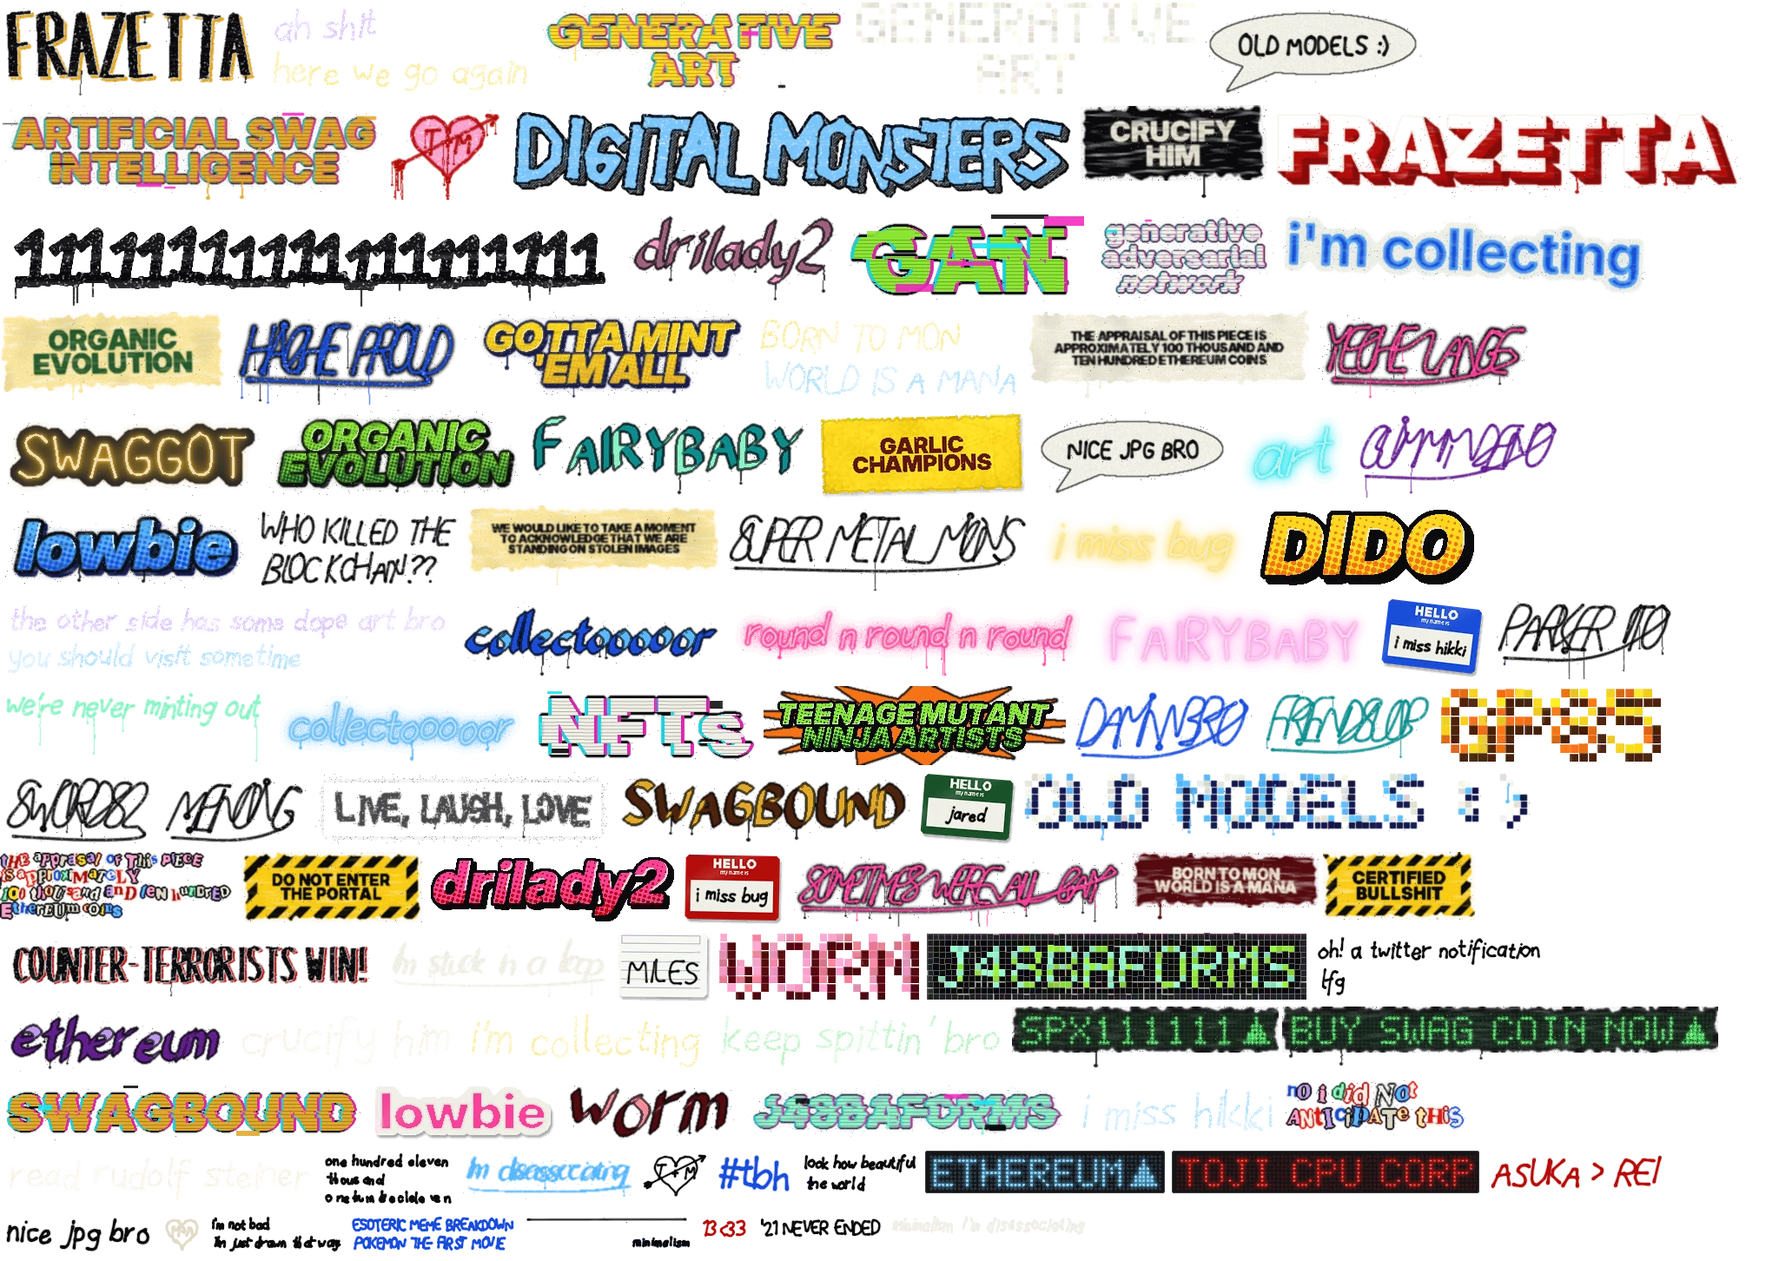
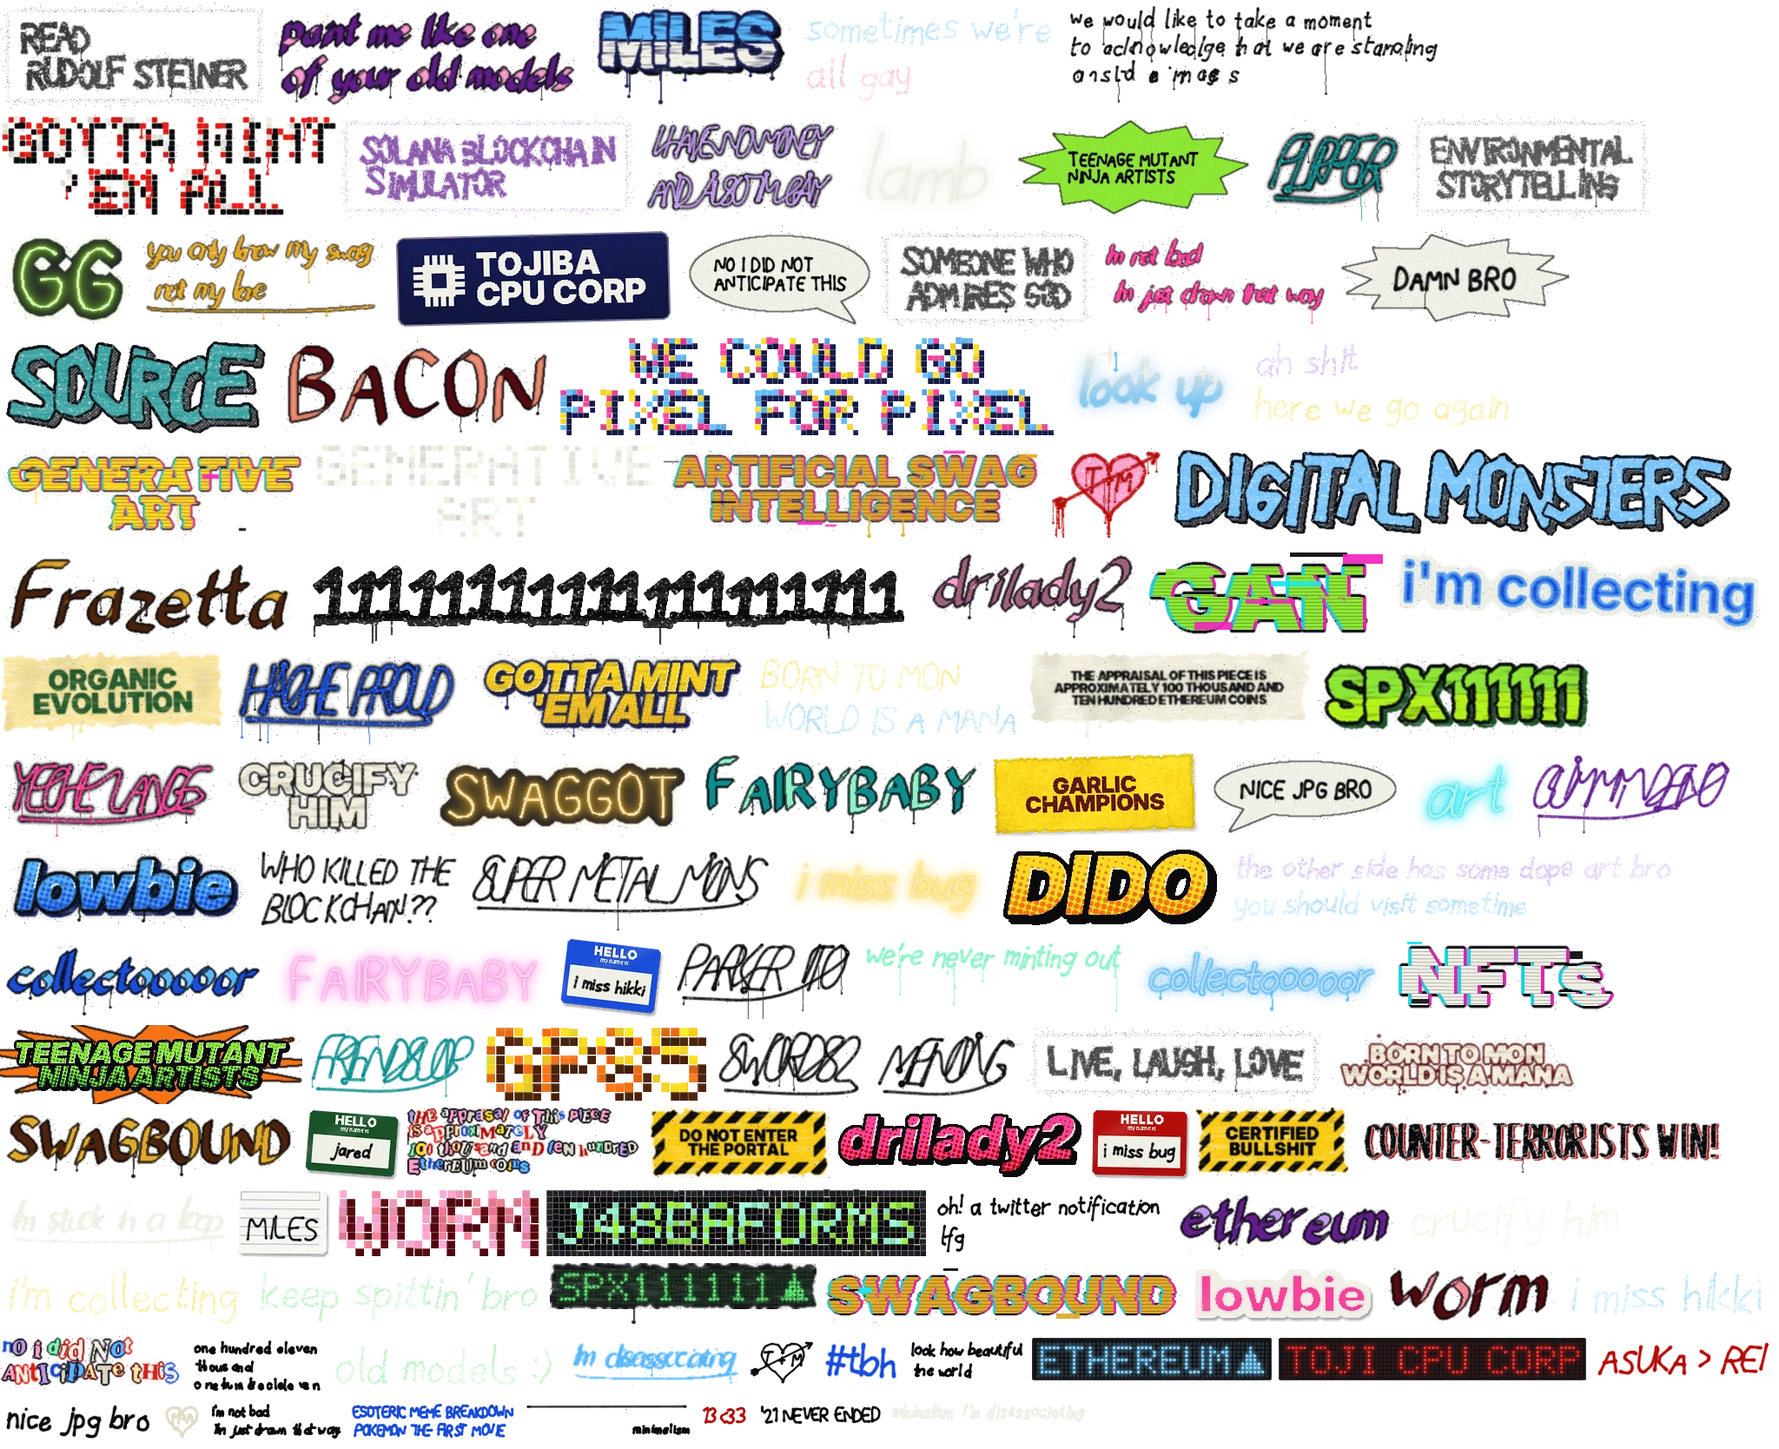
Graffiti review (9 Nov): remakes, kerning and no-drip versions
- 20 redone in other styles (ribbon, throw-ups, piece, roller, blockbuster,
  hollow 3D, stencil, chalk, a circle for round n round); the ticker and
  glitch ones (buy swag coin now, generative adversarial network,
  J48BAFORMS) as actual graffiti instead of pixels/digital
- CRUCIFY HIM, BORN TO MON, the Gucci list: no rectangle behind them now
- EGGS: a G that reads as a G in fat letters
- letters spaced out on 4 (the circle sets its words smaller to stay in its
  half of the ring); SOURCE and SPX111111 without drips
- their review statuses cleared so they show up to review again

Claude-Session: https://claude.ai/code/session_01KTYzke645RpUb8Vvjyd6au

diff --git a/tools/graffiti_fourth.py b/tools/graffiti_fourth.py
@@ -24,11 +24,15 @@ import graffiti_third as T
 from graffiti_more import (BLACK, WHITE, SILVER, CHARCOAL, BLOOD, OXBLOOD, BONE, HOTPINK, BUBBLEGUM, LILAC, GRAPE, SKY,
                            COBALT, NAVY, TEAL, LIME, TOXIC, FOREST, MINT, YELLOW, GOLD, ORANGE, TANGERINE, RED, CREAM,
                            BROWN, MAUVE, STRAIGHT, WILD, SEMI, ANGTHROW, paint_mask, spray_paths, stack, trim, paste, add_drips)
+from graffiti_third import MAGENTA as MAGENTA_
 from graffiti_third import type_masks, crop_masks, dilate, erode, shift, noise, rough, mix, hand_strokes, stroke_mask
 
 PX = G.PX_PER_M
 CAUTION = (0.98, 0.8, 0.08)
 G.GLYPHS.setdefault('>', [[(0.0, 0.85), (0.45, 0.5), (0.0, 0.15)]])      # (for ASUKA > REI)
+# a G that stays a G in fat bubble letters: the top left open, a square spur down the right, a clear crossbar
+CLEAR_G = {'G': [[(0.66, 0.92), (0.4, 1.0), (0.1, 0.88), (0.0, 0.5), (0.1, 0.1), (0.38, 0.0), (0.72, 0.0), (0.72, 0.4),
+                  (0.36, 0.4)]]}
 
 
 def spray(cv, mask, color, r, soft=1.0, mist=1.2, streak=0.2, opacity=1.0):
@@ -278,6 +282,9 @@ def rng(name, seed):
     return np.random.default_rng(zlib.crc32(name.encode()) + seed * 104729)
 
 
+# after review (/graffiti, 9 Nov): letters spaced out, and remade without drips
+KERN4 = {'sc_psuedointellectual', 'sc_secretlyfamous', 'sc_stolenimages', 'ci_swagworld'}
+NODRIPS4 = {'ol_source', 'bb_spx111111'}
 THIRD_FAMILIES = {'bb', 'sl', 'ps', 'rn', 'mo', 'tk', 'ne', 'gl', 'ht', 'ch', 'sb', 'sg', 'cx', 'rb'}
 
 
@@ -290,14 +297,14 @@ def build_fourth(seed=13, only=None):
             return
         r = rng(name, seed)
         T.SPRAY, T._R = name.split('_')[0] in THIRD_FAMILIES, np.random.default_rng(zlib.crc32(name.encode()) + 23)
+        G.NODRIPS, G.KERN = name in NODRIPS4, G.KERN_SPACE if name in KERN4 else 0.0
         try:
             P[name] = trim(fn(r), 6)
         finally:
-            T.SPRAY = False
+            T.SPRAY, G.NODRIPS, G.KERN = False, False, 0.0
 
     # paint me like one of your old models
     add('sc_paintmelike', lambda r: G.scrawl(['paint me like one', 'of your old models'], HOTPINK, r, 0.16, 0.016, drips=0.2))
-    add('ab_paintmelike', lambda r: airbrush('paint me like one\nof your old models', BUBBLEGUM, GRAPE, r, 0.18, halo=LILAC))
     # GLUE FACTORY
     add('tu_gluefactory', lambda r: G.piece('GLUE\nFACTORY', WHITE, BLACK, r, 0.42, shadow=SKY, shine=None, **ANGTHROW))
     add('vt_gluefactory', lambda r: vertical('GLUE FACTORY', CREAM, BROWN, r, 0.24, shadow=BLACK))
@@ -306,12 +313,11 @@ def build_fourth(seed=13, only=None):
                                              block=NAVY, **SEMI))
     add('ci_imagecollider', lambda r: circle(('IMAGE COLLIDER', None), SKY, r, 0.5, middle='tracks', accent=TANGERINE))
     # BACON
-    add('bb_bacon', lambda r: T.blockbuster('BACON', (0.85, 0.35, 0.3), OXBLOOD, r, 0.45, fill2=(0.98, 0.8, 0.7), shadow=BLACK,
-                                            streak=0.35, drips=0.2))
     add('dt_bacon', lambda r: dot_letters('BACON', [(0.98, 0.78, 0.68), (0.8, 0.3, 0.25)], r, 0.45, outline=OXBLOOD,
                                           base=(0.9, 0.5, 0.42)))
     # EGGS
-    add('tu_eggs', lambda r: G.piece('EGGS', WHITE, BLACK, r, 0.55, shadow=YELLOW, fat=0.2, shine=None))
+    add('tu_eggs', lambda r: G.piece('EGGS', WHITE, BLACK, r, 0.55, shadow=YELLOW, fat=0.14, shine=None, glyphs=CLEAR_G,
+                                     spacing=0.16))
     add('ab_eggs', lambda r: airbrush('EGGS', WHITE, YELLOW, r, 0.4, halo=GOLD, keyline=ORANGE, script=False))
     # retarded psuedointellectual bullshit (spelled as given)
     add('sc_psuedointellectual', lambda r: G.scrawl(['retarded', 'psuedointellectual', 'bullshit'], BLACK, r, 0.15, 0.015, drips=0.25))
@@ -334,7 +340,6 @@ def build_fourth(seed=13, only=None):
     add('sn_admiresgod', lambda r: M.cutstencil('SOMEONE WHO\nADMIRES GOD', BLACK, r, 0.15, fade=0.05))
     # sometimes we're all gay
     add('ch_sometimesgay', lambda r: T.chalk(["sometimes we're", 'all gay'], r, 0.2))
-    add('bf_sometimesgay', lambda r: M.busflow("SOMETIMES WE'RE ALL GAY", HOTPINK, r, 0.24, 0.015, outline=BLACK))
     # GAYMER
     add('pc_gaymer', lambda r: G.piece('GAYMER', HOTPINK, BLACK, r, 0.5, fill_style='stripes', fill2=SKY, shadow=BLACK, block=GRAPE,
                                        **SEMI))
@@ -347,7 +352,6 @@ def build_fourth(seed=13, only=None):
     add('sh_hehe', lambda r: shadow_letters('HEHE', HOTPINK, r, 0.45, brush='round'))
     # damn bro
     add('sb_damnbro', lambda r: T.speech(['DAMN BRO'], r, 'shout', fill=WHITE, height_m=0.14))
-    add('bf_damnbro', lambda r: M.busflow('DAMN BRO', COBALT, r, 0.32, 0.018))
     # flipper
     add('bf_flipper', lambda r: M.busflow('FLIPPER', TEAL, r, 0.34, 0.018, outline=BLACK))
     add('vt_flipper', lambda r: vertical('FLIPPER', SKY, NAVY, r, 0.24, shadow=WHITE))
@@ -377,12 +381,10 @@ def build_fourth(seed=13, only=None):
                                     **STRAIGHT))
     add('sh_lsw', lambda r: shadow_letters('LSW', GOLD, r, 0.6))
     # it's a swag world after all
-    add('ab_swagworld', lambda r: airbrush("it's a swag world\nafter all", GOLD, ORANGE, r, 0.2, halo=YELLOW))
     add('ci_swagworld', lambda r: circle(("IT'S A SWAG WORLD", 'AFTER ALL'), GOLD, r, 0.48, middle='globe', accent=YELLOW,
                                          inner=COBALT))
     # TRADING ROOM FLOOR
     add('cx_tradingroomfloor', lambda r: T.chart(r, big='TRADING ROOM FLOOR', up=False, n=16))
-    add('pl_tradingroomfloor', lambda r: M.placa('TRADING\nROOM FLOOR', BLACK, r, 0.22, shadow=BLOOD))
     # SPX111111
     add('tk_spx111111', lambda r: T.ticker(['SPX111111'], r, color=(0.35, 1.0, 0.45), arrow='up'))
     add('bb_spx111111', lambda r: T.blockbuster('SPX111111', LIME, BLACK, r, 0.36, fill2=TOXIC, shadow=FOREST, streak=0.35, drips=0.2))
@@ -393,13 +395,10 @@ def build_fourth(seed=13, only=None):
     add('tag_tbh', lambda r: G.tag('#tbh', BLACK, r, height_m=0.35, width_m=0.022, flourish='underline'))
     add('mk_tbh', lambda r: G.marker('', COBALT, r, 0.2, lines=['#tbh']))
     # we would like to take a moment to acknowledge that we are standing on stolen images
-    add('ps_stolenimages', lambda r: T.poster(['WE WOULD LIKE TO TAKE A MOMENT', 'TO ACKNOWLEDGE THAT WE ARE',
-                                               'STANDING ON STOLEN IMAGES'], r, width_m=1.7, sheet=CREAM, ink=BLACK, line_gap=1.25))
     add('sc_stolenimages', lambda r: G.scrawl(['we would like to take a moment', 'to acknowledge that we are standing',
                                               'on stolen images'], BLACK, r, 0.12, 0.013, drips=0.15))
     # DO NOT ENTER THE PORTAL
     add('hz_donotenter', lambda r: hazard(['DO NOT ENTER', 'THE PORTAL'], r, 1.2))
-    add('sn_donotenter', lambda r: M.cutstencil('DO NOT ENTER\nTHE PORTAL', BLACK, r, 0.16, fade=0.05))
     # the other side has some dope art bro you should visit sometime
     add('ch_otherside', lambda r: T.chalk(['the other side has some dope art bro', 'you should visit sometime'], r, 0.15))
     add('sb_otherside', lambda r: T.speech(['THE OTHER SIDE HAS SOME', 'DOPE ART BRO YOU SHOULD', 'VISIT SOMETIME'], r, 'round',
@@ -416,10 +415,33 @@ def build_fourth(seed=13, only=None):
     add('dt_source', lambda r: dot_letters('SOURCE', [WHITE, SKY], r, 0.4, base=TEAL))
     # read rudolf steiner
     add('sn_rudolfsteiner', lambda r: M.cutstencil('READ\nRUDOLF STEINER', BLACK, r, 0.16, fade=0.05))
-    add('ch_rudolfsteiner', lambda r: T.chalk(['read rudolf steiner'], r, 0.2))
     # FRAZETTA
-    add('pl_frazetta', lambda r: M.placa('FRAZETTA', BLACK, r, 0.3, shadow=GOLD))
-    add('sh_frazetta', lambda r: shadow_letters('FRAZETTA', BLOOD, r, 0.4))
+    # ---- remade after the 9 Nov review, each in some other style (the old names are gone from the cans)
+    add('rb_paintmelike', lambda r: T.ribbon('paint me like one\nof your old models', BUBBLEGUM, GRAPE, r, 0.2))
+    add('rb_bacon', lambda r: T.ribbon('BACON', (0.95, 0.55, 0.45), OXBLOOD, r, 0.42, script=False))
+    add('tu_damnbro', lambda r: G.piece('DAMN\nBRO', SKY, BLACK, r, 0.42, shadow=NAVY, shine=WHITE, **ANGTHROW))
+    add('rl_donotenter', lambda r: G.roller('DO NOT ENTER\nTHE PORTAL', BLOOD, r, 0.3))
+    add('pc_frazetta', lambda r: G.piece('FRAZETTA', GOLD, BLACK, r, 0.5, fill_style='fade', fill2=BLOOD, shadow=BLACK, block=OXBLOOD,
+                                         **SEMI))
+    add('rb_frazetta', lambda r: T.ribbon('Frazetta', GOLD, BROWN, r, 0.4))
+    add('tu_rudolfsteiner', lambda r: G.piece('READ RUDOLF\nSTEINER', CREAM, FOREST, r, 0.32, shadow=BLACK, shine=None, **ANGTHROW))
+    add('rb_sometimesgay', lambda r: T.ribbon("sometimes we're\nall gay", HOTPINK, GRAPE, r, 0.24))
+    add('ch_stolenimages', lambda r: T.chalk(['we would like to take a moment', 'to acknowledge that we are', 'standing on stolen images'],
+                                             r, 0.14))
+    add('tu_swagworld', lambda r: G.piece("IT'S A SWAG WORLD\nAFTER ALL", GOLD, BLACK, r, 0.26, fill_style='fade', fill2=ORANGE,
+                                          shadow=BLACK, shine=WHITE, **ANGTHROW))
+    add('bb_tradingroomfloor', lambda r: T.blockbuster('TRADING\nROOM FLOOR', LIME, BLACK, r, 0.32, fill2=FOREST, shadow=WHITE,
+                                                       streak=0.35, drips=0.15))
+    # (from the third batch: the digital-looking ones as actual graffiti)
+    add('ol_counterterroristswin', lambda r: M.outline3d('COUNTER-\nTERRORISTS WIN!', BLACK, r, 0.3, fill=SKY, block_fill=None))
+    add('ol_gan_long', lambda r: M.outline3d('GENERATIVE\nADVERSARIAL\nNETWORK', BLACK, r, 0.22, fill=MAGENTA_, block_fill=None))
+    add('sn_gan_long', lambda r: M.cutstencil('GENERATIVE\nADVERSARIAL\nNETWORK', BLACK, r, 0.22, fade=0.05))
+    add('tu_j48baforms', lambda r: G.piece('J48BAFORMS', MINT, BLACK, r, 0.38, shadow=TEAL, shine=WHITE, **ANGTHROW))
+    add('tu_buyswagcoinnow', lambda r: G.piece('BUY SWAG\nCOIN NOW', LIME, BLACK, r, 0.34, shadow=FOREST, shine=WHITE, fat=0.15))
+    add('tu_oldmodels', lambda r: G.piece('OLD MODELS :)', SKY, BLACK, r, 0.36, shadow=WHITE, shine=None, fat=0.15))
+    add('ch_oldmodels', lambda r: T.chalk(['old models :)'], r, 0.22))
+    add('rb_organicevolution', lambda r: T.ribbon('organic\nevolution', LIME, FOREST, r, 0.26))
+    add('ci_roundnround', lambda r: circle(('ROUND N ROUND N', 'ROUND'), HOTPINK, r, 0.45, middle='tracks', accent=BUBBLEGUM))
     return P
 
 

diff --git a/tools/graffiti_third.py b/tools/graffiti_third.py
@@ -509,7 +509,7 @@ def paper(cv, mask, color, r, wrinkle=0.5, torn=True):
 
 
 def poster(lines, r, kind='type', width_m=0.7, font_kind='black', ink=BLACK, sheet=PAPER, small=None, line_gap=1.12,
-           margin=0.1):
+           margin=0.1, panel=True):
     """A wheatpasted print. kind: 'type' (ink on paper), anything else is just the colours given.
     (Spray mode: a sprayed panel with big sprayed block letters on it.)"""
     if SPRAY:
@@ -532,6 +532,13 @@ def poster(lines, r, kind='type', width_m=0.7, font_kind='black', ink=BLACK, she
     sheet_mask[5:5 + H, 5:5 + W] = True
     if not SPRAY:
         cv.over(BLACK, ndimage.gaussian_filter(shift(sheet_mask, 1, 2).astype(float), 1.5) * 0.25)
+    if SPRAY and not panel:                # no panel at all: just the words, edged in what was the panel's colour
+        tmp = G.Canvas(cv.w, cv.h)
+        place(tmp, m, WHITE, cv.w / 2, 5 + mh)
+        words = tmp.a > 0.5
+        flat(cv, dilate(words, max(2.0, m.shape[0] * 0.03)), sheet)
+        flat(cv, words, ink)
+        return light_drips(cv, sheet, r, dilate(words, 2), rate=0.1)
     sheet_mask = paper(cv, sheet_mask, sheet, r)
     place(cv, m, ink, cv.w / 2, 5 + mh, 0.93)
     if sm is not None:
@@ -927,8 +934,14 @@ def speech(lines, r, kind='round', fill=WHITE, line=BLACK, ink=BLACK, height_m=0
 def arc_text(cv, text, kind, cap, cx, cy, radius, centre_angle, color, inside=False):
     """letters set round a circle (centre_angle in radians, 0 = right, -pi/2 = top)"""
     f = font(kind, cap_size(kind, cap))
-    widths = [f.getlength(c) + cap * 0.12 for c in text]
+    widths = [f.getlength(c) + cap * (0.12 + G.KERN) for c in text]
     total = sum(widths) / radius
+    if G.KERN and total > math.pi * 0.9:   # spaced out past half the ring: set smaller so it still fits its half
+        k = math.pi * 0.9 / total
+        cap *= k
+        f = font(kind, cap_size(kind, cap))
+        widths = [f.getlength(c) + cap * (0.12 + G.KERN) for c in text]
+        total = sum(widths) / radius
     a = centre_angle - total / 2 * (-1 if inside else 1)
     for c, w in zip(text, widths):
         step = w / radius * (-1 if inside else 1)
@@ -1204,11 +1217,11 @@ def build_third(seed=11, only=None):
     add('tk_ethereum', lambda r: ticker(['ETHEREUM'], r, color=(0.45, 0.8, 1.0), arrow='up'))
     add('rb_ethereum', lambda r: ribbon('ethereum', LILAC, GRAPE, r, 0.3))
     # crucify him
-    add('ps_crucifyhim', lambda r: poster(['CRUCIFY', 'HIM'], r, width_m=1.24, sheet=BLACK, ink=PAPER))
+    add('ps_crucifyhim', lambda r: poster(['CRUCIFY', 'HIM'], r, width_m=1.7, sheet=BLACK, ink=PAPER, panel=False))
     add('ch_crucifyhim', lambda r: chalk(['crucify him'], r, 0.255, colors=[(0.96, 0.95, 0.9)]))
     # round n round n round
     add('rb_roundnround', lambda r: ribbon('round n round\nn round', TANGERINE, BROWN, r, 0.24))
-    add('ne_roundnround', lambda r: neon('round n round n round', HOTPINK, r, 0.2))
+    # (ne_roundnround: remade after the 9 Nov review, see tools/graffiti_fourth.py)
     # ah shit here we go again
     add('sb_ahshit', lambda r: speech(['AH SHIT,', 'HERE WE GO', 'AGAIN'], r, 'round', height_m=0.09))
     add('ch_ahshit', lambda r: chalk(['ah shit', 'here we go again'], r, 0.195))
@@ -1229,10 +1242,10 @@ def build_third(seed=11, only=None):
     # ORGANIC EVOLUTION
     add('ps_organicevolution', lambda r: poster(['ORGANIC', 'EVOLUTION'], r, width_m=1.5, font_kind='serif', ink=FOREST,
                                                 sheet=CREAM))
-    add('ht_organicevolution', lambda r: halftone('ORGANIC\nEVOLUTION', LIME, r, 0.2, dot=FOREST))
+    # (ht_organicevolution: remade after the 9 Nov review, see tools/graffiti_fourth.py)
     # buy swag coin now
     add('cx_buyswagcoinnow', lambda r: chart(r, words=['buy swag coin now'], up=True))
-    add('tk_buyswagcoinnow', lambda r: ticker(['BUY SWAG COIN NOW'], r, color=(0.35, 1.0, 0.45), arrow='up'))
+    # (tk_buyswagcoinnow: remade after the 9 Nov review, see tools/graffiti_fourth.py)
     # i miss hikki
     add('ch_imisshikki', lambda r: chalk(['i miss hikki'], r, 0.24, colors=[CHALK[2]], hearts=1))
     add('sl_imisshikki', lambda r: slap('hello', r, lines=['i miss hikki'], color=COBALT, size_m=0.66))
@@ -1247,8 +1260,8 @@ def build_third(seed=11, only=None):
     add('rb_lamb', lambda r: ribbon('lamb', CREAM, BONE, r, 0.42))
     # GUCCI GUCCI LOUISE LOUISE FENDI FENDI PRADA
     add('rn_gucci', lambda r: ransom(['GUCCI GUCCI', 'LOUISE LOUISE', 'FENDI FENDI', 'PRADA'], r, 0.11))
-    add('ps_gucci', lambda r: poster(['GUCCI GUCCI', 'LOUISE LOUISE', 'FENDI FENDI', 'PRADA'], r, width_m=1.24, sheet=PAPER,
-                                     ink=BLACK, font_kind='serif', line_gap=1.2))
+    add('ps_gucci', lambda r: poster(['GUCCI GUCCI', 'LOUISE LOUISE', 'FENDI FENDI', 'PRADA'], r, width_m=1.7, sheet=PAPER,
+                                     ink=BLACK, font_kind='serif', line_gap=1.2, panel=False))
     # lowbie
     add('ht_lowbie', lambda r: halftone('lowbie', SKY, r, 0.34, dot=COBALT, shadow=NAVY))
     add('sl_lowbie', lambda r: slap('vinyl', r, text='lowbie', color=HOTPINK, ink=WHITE, size_m=0.65))
@@ -1284,16 +1297,16 @@ def build_third(seed=11, only=None):
     add('mo_gottamint', lambda r: mosaic(['GOTTA MINT', "'EM ALL"], r, 0.04, 7, colors=(RED, WHITE), shade=BLACK))
     # BORN TO MON WORLD IS A MANA
     add('ch_borntomon', lambda r: chalk(['BORN TO MON', 'WORLD IS A MANA'], r, 0.18, upper=True))
-    add('ps_borntomon', lambda r: poster(['BORN TO MON', 'WORLD IS A MANA'], r, width_m=1.24, sheet=OXBLOOD, ink=PAPER))
+    add('ps_borntomon', lambda r: poster(['BORN TO MON', 'WORLD IS A MANA'], r, width_m=2.0, sheet=OXBLOOD, ink=PAPER, panel=False))
     # GAN
     add('gl_gan', lambda r: glitch('GAN', r, LIME, 0.45))
     add('bb_gan', lambda r: blockbuster('GAN', MINT, BLACK, r, 0.55, fill2=TEAL, shadow=WHITE, cut=BLACK))
     # generative adversarial network
-    add('gl_gan_long', lambda r: glitch('generative\nadversarial\nnetwork', r, WHITE, 0.15, kind='mono'))
-    add('tk_gan_long', lambda r: ticker(['GENERATIVE', 'ADVERSARIAL', 'NETWORK'], r, color=MAGENTA, dot_m=0.022))
+    # (gl_gan_long: remade after the 9 Nov review, see tools/graffiti_fourth.py)
+    # (tk_gan_long: remade after the 9 Nov review, see tools/graffiti_fourth.py)
     # OLD MODELS :)
-    add('mo_oldmodels', lambda r: mosaic(['OLD MODELS :)'], r, 0.048, 7, colors=(SKY, WHITE), shade=NAVY))
-    add('sb_oldmodels', lambda r: speech(['OLD MODELS :)'], r, 'round', height_m=0.12))
+    # (mo_oldmodels: remade after the 9 Nov review, see tools/graffiti_fourth.py)
+    # (sb_oldmodels: remade after the 9 Nov review, see tools/graffiti_fourth.py)
     # no i did not anticipate this
     add('sb_noididnot', lambda r: speech(['NO I DID NOT', 'ANTICIPATE THIS'], r, 'round', height_m=0.09, tail='right'))
     add('rn_noididnot', lambda r: ransom(['no i did not', 'anticipate this'], r, 0.11))
@@ -1304,7 +1317,7 @@ def build_third(seed=11, only=None):
     add('rb_swagbound', lambda r: ribbon('SWAGBOUND', GOLD, BROWN, r, 0.26, script=False))
     add('gl_swagbound', lambda r: glitch('SWAGBOUND', r, GOLD, 0.26))
     # J48BAFORMS
-    add('gl_j48baforms', lambda r: glitch('J48BAFORMS', r, MINT, 0.22, kind='mono'))
+    # (gl_j48baforms: remade after the 9 Nov review, see tools/graffiti_fourth.py)
     add('mo_j48baforms', lambda r: mosaic(['J48BAFORMS'], r, 0.042, 7, colors=(LIME, MINT), frame=CHARCOAL, back=BLACK))
     # BONK
     add('sb_bonk', lambda r: speech(['BONK!'], r, 'shout', fill=ORANGE, height_m=0.2))
@@ -1320,8 +1333,7 @@ def build_third(seed=11, only=None):
                                       scrawl=['surely i can', 'go faster']))
     add('ch_topspeed', lambda r: chalk(['top speed record 202mph', 'surely i can go faster'], r, 0.165, underline=True))
     # counter-terrorists win! (redone from the earlier batch's throw-up, in a new style)
-    add('bb_counterterroristswin', lambda r: blockbuster('COUNTER-\nTERRORISTS WIN!', SKY, NAVY, r, 0.3, fill2=WHITE,
-                                                         shadow=BLACK, streak=0.35, drips=0.2))
+    # (bb_counterterroristswin: remade after the 9 Nov review, see tools/graffiti_fourth.py)
     # PUMP
     add('cx_pump', lambda r: chart(r, big='PUMP', up=True, n=12))
     add('bb_pump', lambda r: blockbuster('PUMP', LIME, BLACK, r, 0.5, fill2=TOXIC, shadow=FOREST, cut=BLACK))
